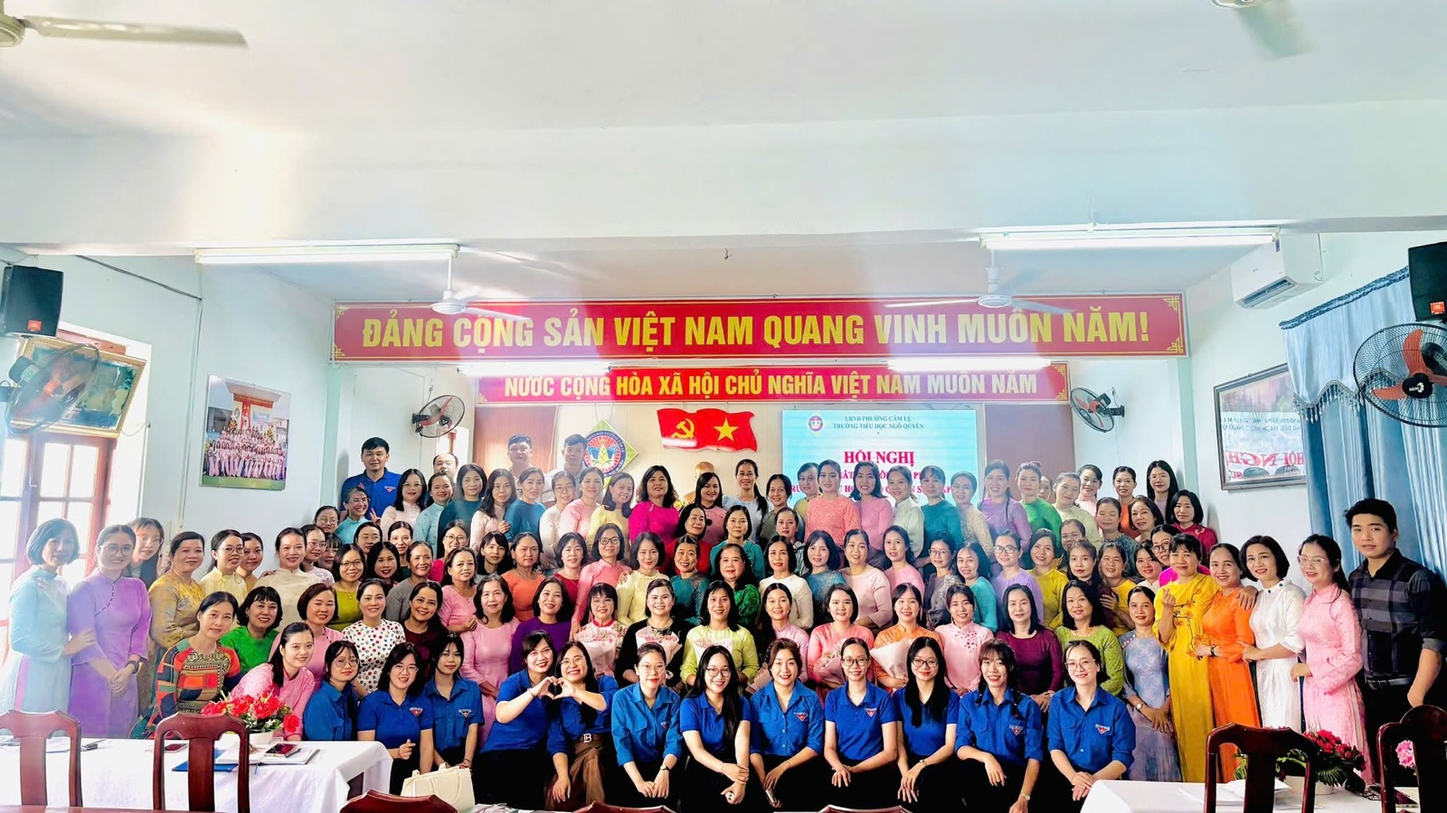
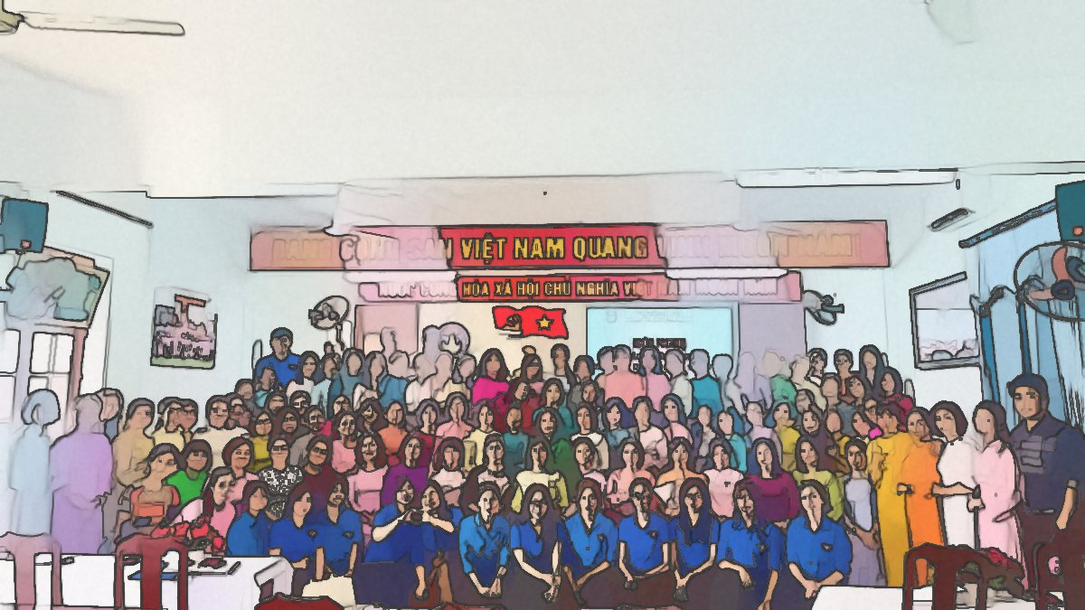
feat: use real school photos in watercolor style, teacher comics and milestone infographic

diff --git a/index.html b/index.html
@@ -242,7 +242,7 @@
       <div class="copy">
         <span class="kicker reveal" style="--i:0">🏫 Trường em</span>
         <h2 class="title reveal" style="--i:1">Trường Tiểu học <em>Ngô Quyền</em></h2>
-        <p class="lead reveal" style="--i:2">Ngôi trường thân yêu của chúng em ở <span class="mark">phường Cẩm Lệ, thành phố Đà Nẵng</span>. Trường có hai cơ sở để các bạn nhỏ đi học gần nhà hơn.</p>
+        <p class="lead reveal" style="--i:2">Ngôi trường thân yêu của chúng em ở <span class="mark">phường Cẩm Lệ, thành phố Đà Nẵng</span>. Dãy lớp học xanh mát, sân trường rộng và nhiều cây bóng mát.</p>
         <div class="info-cards reveal" style="--i:3">
           <div class="info-card"><span class="tag">Trụ sở chính</span><b>32 Lương Định Của</b><span>Phường Cẩm Lệ, Đà Nẵng</span></div>
           <div class="info-card"><span class="tag">Phân hiệu</span><b>43 Đỗ Thúc Tịnh</b><span>Phường Cẩm Lệ, Đà Nẵng</span></div>
@@ -251,17 +251,16 @@
         </div>
       </div>
       <div class="art reveal" style="--i:1">
-        <svg viewBox="0 0 440 340" role="img" aria-label="Tranh vẽ Trường Tiểu học Ngô Quyền với sân trường, cột cờ và các bạn học sinh">
-          <rect x="10" y="20" width="420" height="310" rx="34" fill="#fff"/>
-          <circle cx="370" cy="70" r="28" fill="#ffd166"/>
-          <g fill="#fff" stroke="#cfe9f5" stroke-width="2"><ellipse cx="90" cy="70" rx="40" ry="14"/><ellipse cx="240" cy="54" rx="34" ry="11"/></g>
-          <use href="#school" x="30" y="60" width="380" height="247"/>
-          <g>
-            <circle cx="120" cy="296" r="9" fill="#ffd9b8"/><rect x="112" y="304" width="16" height="18" rx="5" fill="#fff" stroke="#14213d" stroke-width="2"/><path d="m114 306 6 6 6-6" fill="#e63946"/>
-            <circle cx="160" cy="294" r="9" fill="#ffd9b8"/><rect x="152" y="302" width="16" height="20" rx="5" fill="#219ebc"/><path d="m154 304 6 6 6-6" fill="#e63946"/>
-            <circle cx="300" cy="296" r="9" fill="#ffd9b8"/><rect x="292" y="304" width="16" height="18" rx="5" fill="#fff" stroke="#14213d" stroke-width="2"/><path d="m294 306 6 6 6-6" fill="#e63946"/>
-          </g>
-        </svg>
+        <div class="campus">
+          <figure class="photo drawn wide frame">
+            <img src="images/day-lop-hoc-va-san-truong.jpg" alt="Dãy lớp học sơn màu xanh dương của trường, phía trước là hàng cây xanh" loading="lazy">
+            <figcaption>Dãy lớp học xanh mát giữa hàng cây · Ảnh: fanpage trường</figcaption>
+          </figure>
+          <figure class="photo drawn wide frame">
+            <img src="images/le-chao-co-tuyen-truyen-suc-khoe.jpg" alt="Học sinh ngồi kín sân trường trước dãy lớp học trong buổi sinh hoạt dưới cờ" loading="lazy">
+            <figcaption>Sân trường rộn ràng giờ sinh hoạt dưới cờ · Ảnh: fanpage trường</figcaption>
+          </figure>
+        </div>
       </div>
     </div>
   </section>
@@ -273,15 +272,83 @@
       <div class="copy">
         <span class="kicker reveal" style="--i:0">💐 Thầy cô của chúng em</span>
         <h2 class="title reveal" style="--i:1">Những người lái đò <em>tận tâm</em></h2>
-        <p class="lead reveal" style="--i:2">Trường có đội ngũ thầy cô đông đảo, luôn yêu thương và dạy dỗ chúng em từng nét chữ, từng bài học làm người.</p>
-        <p class="lead reveal" style="--i:3">Tháng 11/2026, trường khởi động chuỗi hoạt động chào mừng <span class="mark">44 năm Ngày Nhà giáo Việt Nam (20/11/1982 – 20/11/2026)</span>.</p>
-        <div class="chips reveal" style="--i:4"><span class="chip">👩🏫 Tận tâm</span><span class="chip">📖 Yêu nghề</span><span class="chip">🤝 Đoàn kết</span></div>
+        <p class="lead reveal" style="--i:2">Thầy cô dạy chúng em từng nét chữ, từng bài học làm người. Tháng 11/2026, trường khởi động chuỗi hoạt động chào mừng <span class="mark">44 năm Ngày Nhà giáo Việt Nam</span>.</p>
       </div>
       <div class="art reveal" style="--i:1">
-        <figure class="photo frame" style="aspect-ratio:16/10">
-          <img src="images/tap-the-thay-co-truong-ngo-quyen.jpg" alt="Tập thể thầy cô Trường Tiểu học Ngô Quyền mặc áo dài và áo Đoàn chụp ảnh chung trong hội trường" loading="lazy">
-          <figcaption>Tập thể thầy cô nhà trường · Ảnh: fanpage Trường TH Ngô Quyền – Phường Cẩm Lệ</figcaption>
+        <figure class="photo drawn frame" style="aspect-ratio:16/10">
+          <img src="images/tap-the-thay-co-truong-ngo-quyen.jpg" alt="Tập thể thầy cô Trường Tiểu học Ngô Quyền chụp ảnh chung trong hội trường" loading="lazy">
+          <figcaption>Tập thể thầy cô nhà trường · Ảnh: fanpage trường</figcaption>
         </figure>
+      </div>
+      <div class="comics reveal" style="--i:3">
+        <div class="comic" style="--r:-2deg">
+          <svg viewBox="0 0 240 150" role="img" aria-label="Tranh vui: cô giáo khoác áo choàng siêu nhân bay tới giúp bạn nhỏ giải bài toán khó">
+            <rect width="240" height="150" fill="#dff1ff"/>
+            <g fill="#fff"><ellipse cx="40" cy="30" rx="26" ry="9"/><ellipse cx="200" cy="22" rx="22" ry="8"/></g>
+            <path d="M118 66q-40 8-60 40 26-4 40 6z" fill="#e63946"/>
+            <rect x="104" y="60" width="34" height="40" rx="12" fill="#ff8fb1" transform="rotate(-20 121 80)"/>
+            <path d="M136 66l26-20" stroke="#ffd9b8" stroke-width="8" stroke-linecap="round"/>
+            <rect x="156" y="30" width="22" height="16" rx="3" fill="#fff" stroke="#14213d" stroke-width="2" transform="rotate(-15 167 38)"/>
+            <circle cx="132" cy="44" r="17" fill="#ffd9b8"/>
+            <path d="M115 42q2-20 20-19 16 1 15 18-6-9-18-9-10 0-17 10z" fill="#3d2b1f"/><circle cx="150" cy="30" r="7" fill="#3d2b1f"/>
+            <circle cx="127" cy="45" r="2.4" fill="#14213d"/><circle cx="138" cy="45" r="2.4" fill="#14213d"/>
+            <path d="M128 52q5 4 10 0" stroke="#14213d" stroke-width="2" fill="none" stroke-linecap="round"/>
+            <g stroke="#ffb703" stroke-width="3" stroke-linecap="round"><path d="M70 60l-14-4"/><path d="M74 74l-16 2"/></g>
+            <circle cx="56" cy="122" r="13" fill="#ffd9b8"/><path d="M44 118q12-14 24 0" fill="#3d2b1f"/>
+            <rect x="44" y="134" width="24" height="16" rx="6" fill="#fff"/>
+            <path d="M51 125q5 4 10 0" stroke="#14213d" stroke-width="2" fill="none"/>
+            <rect x="80" y="104" width="62" height="40" rx="6" fill="#2a9d8f"/><text x="111" y="130" text-anchor="middle" font-family="Baloo 2, sans-serif" font-weight="800" font-size="15" fill="#fff">7×8=?</text>
+            <rect x="160" y="90" width="72" height="26" rx="13" fill="#fff" stroke="#14213d" stroke-width="2"/><text x="196" y="108" text-anchor="middle" font-family="Be Vietnam Pro, sans-serif" font-weight="700" font-size="11" fill="#14213d">Để cô giúp!</text>
+          </svg>
+          <b>Siêu nhân giải bài khó</b><span>Bài nào khó, thầy cô “bay” tới liền.</span>
+        </div>
+        <div class="comic" style="--r:1.5deg">
+          <svg viewBox="0 0 240 150" role="img" aria-label="Tranh vui: cô giáo tưới nước cho chậu cây, các bạn nhỏ mọc lên như mầm cây và nở hoa">
+            <rect width="240" height="150" fill="#eafbe7"/>
+            <circle cx="214" cy="26" r="14" fill="#ffd166"/>
+            <path d="M120 150h100l-10-46h-80z" fill="#c97a40"/><rect x="124" y="98" width="92" height="12" rx="4" fill="#a8622f"/>
+            <g>
+              <path d="M150 98V78" stroke="#2a9d8f" stroke-width="4"/><path d="M150 86q-12-2-14-12 12 0 14 12z" fill="#2a9d8f"/>
+              <circle cx="150" cy="66" r="13" fill="#ffd9b8"/><path d="M138 62q12-14 24 0" fill="#3d2b1f"/>
+              <circle cx="146" cy="66" r="1.8" fill="#14213d"/><circle cx="154" cy="66" r="1.8" fill="#14213d"/><path d="M146 72q4 3 8 0" stroke="#14213d" stroke-width="1.8" fill="none"/>
+              <path d="M190 98V70" stroke="#2a9d8f" stroke-width="4"/><path d="M190 80q12-2 14-12-12 0-14 12z" fill="#2a9d8f"/>
+              <circle cx="190" cy="56" r="13" fill="#ffd9b8"/><path d="M178 52q12-14 24 0" fill="#3d2b1f"/><circle cx="200" cy="46" r="5" fill="#e63946"/>
+              <circle cx="186" cy="56" r="1.8" fill="#14213d"/><circle cx="194" cy="56" r="1.8" fill="#14213d"/><path d="M186 62q4 3 8 0" stroke="#14213d" stroke-width="1.8" fill="none"/>
+              <g fill="#ff8fb1"><circle cx="170" cy="74" r="5"/><circle cx="176" cy="80" r="5"/><circle cx="164" cy="80" r="5"/></g><circle cx="170" cy="79" r="3" fill="#ffd166"/>
+            </g>
+            <rect x="34" y="70" width="34" height="56" rx="12" fill="#7b5cd6"/>
+            <circle cx="51" cy="52" r="17" fill="#ffd9b8"/><path d="M34 50q2-20 18-19 16 1 16 18-6-8-17-8-10 0-17 9z" fill="#3d2b1f"/>
+            <circle cx="46" cy="53" r="2.3" fill="#14213d"/><circle cx="56" cy="53" r="2.3" fill="#14213d"/><path d="M46 60q5 4 10 0" stroke="#14213d" stroke-width="2" fill="none"/>
+            <path d="M66 84l26-6" stroke="#ffd9b8" stroke-width="7" stroke-linecap="round"/>
+            <path d="M84 70h24l8-10 4 4-10 14h-26z" fill="#219ebc"/>
+            <g fill="#219ebc"><circle cx="124" cy="72" r="2.5"/><circle cx="130" cy="80" r="2.5"/><circle cx="126" cy="88" r="2.5"/></g>
+            <rect x="38" y="126" width="10" height="18" rx="4" fill="#14213d"/><rect x="54" y="126" width="10" height="18" rx="4" fill="#14213d"/>
+            <rect x="6" y="18" width="84" height="26" rx="13" fill="#fff" stroke="#14213d" stroke-width="2"/><text x="48" y="36" text-anchor="middle" font-family="Be Vietnam Pro, sans-serif" font-weight="700" font-size="11" fill="#14213d">Lớn nhanh nha!</text>
+          </svg>
+          <b>Người làm vườn chăm mầm</b><span>Ngày ngày “tưới” kiến thức cho chúng em lớn.</span>
+        </div>
+        <div class="comic" style="--r:-1deg">
+          <svg viewBox="0 0 240 150" role="img" aria-label="Tranh vui: thầy giáo dán băng cá nhân hình trái tim lên đầu gối bạn nhỏ, bạn nhỏ hết khóc và cười">
+            <rect width="240" height="150" fill="#fff0f3"/>
+            <g fill="#ffb3c6"><path d="M200 30a7 7 0 0 1 12-6 7 7 0 0 1 12 6q0 8-12 16-12-8-12-16z"/><path d="M18 120a5 5 0 0 1 9-4 5 5 0 0 1 9 4q0 6-9 11-9-5-9-11z"/></g>
+            <rect x="40" y="74" width="40" height="52" rx="12" fill="#219ebc"/>
+            <circle cx="60" cy="54" r="18" fill="#ffd9b8"/><path d="M42 50q4-18 20-18 14 0 16 16-8-6-18-6t-18 8z" fill="#2b2b2b"/>
+            <path d="M52 55h6M64 55h6" stroke="#14213d" stroke-width="2.4" stroke-linecap="round"/>
+            <path d="M54 63q6 5 12 0" stroke="#14213d" stroke-width="2" fill="none"/>
+            <path d="M80 100l34 10" stroke="#ffd9b8" stroke-width="8" stroke-linecap="round"/>
+            <rect x="44" y="126" width="12" height="18" rx="4" fill="#14213d"/><rect x="62" y="126" width="12" height="18" rx="4" fill="#14213d"/>
+            <circle cx="160" cy="88" r="15" fill="#ffd9b8"/><path d="M146 84q14-16 28 0" fill="#3d2b1f"/>
+            <circle cx="155" cy="88" r="2" fill="#14213d"/><circle cx="165" cy="88" r="2" fill="#14213d"/>
+            <path d="M154 95q6 5 12 0" stroke="#14213d" stroke-width="2" fill="none"/>
+            <circle cx="150" cy="93" r="3.5" fill="#ffb3b3"/><circle cx="170" cy="93" r="3.5" fill="#ffb3b3"/>
+            <path d="M151 84l-3 6" stroke="#7fd3ff" stroke-width="2.5" stroke-linecap="round"/>
+            <rect x="146" y="104" width="28" height="26" rx="8" fill="#fff" stroke="#14213d" stroke-width="2"/><path d="m152 106 8 8 8-8" fill="#e63946"/>
+            <path d="M152 130l-14 12M168 130l18 4" stroke="#ffd9b8" stroke-width="8" stroke-linecap="round"/>
+            <rect x="122" y="104" width="16" height="10" rx="3" fill="#ffd166" transform="rotate(20 130 109)"/><path d="M127 107a2 2 0 0 1 3-1 2 2 0 0 1 3 1q0 2-3 4-3-2-3-4z" fill="#e63946"/>
+            <rect x="150" y="18" width="84" height="26" rx="13" fill="#fff" stroke="#14213d" stroke-width="2"/><text x="192" y="36" text-anchor="middle" font-family="Be Vietnam Pro, sans-serif" font-weight="700" font-size="11" fill="#14213d">Hết đau rồi! 😊</text>
+          </svg>
+          <b>Bác sĩ của nụ cười</b><span>Té một cái thôi, có thầy cô vỗ về liền.</span>
+        </div>
       </div>
     </div>
   </section>
@@ -291,55 +358,54 @@
     <div class="inner single">
       <div class="copy">
         <span class="kicker reveal" style="--i:0">🎉 Hoạt động sôi nổi</span>
-        <h2 class="title reveal" style="--i:1">Học vui, chơi khỏe, <em>đọc hay</em></h2>
+        <h2 class="title reveal" style="--i:1">Học vui, chơi khỏe, <em>sáng tạo mỗi ngày</em></h2>
       </div>
-      <div class="gallery reveal" style="--i:2">
-        <figure class="tile photo w4" style="min-height:220px">
-          <img src="images/giai-cau-long-cap-truong-1.jpg" alt="Học sinh thi đấu cầu lông trong nhà thi đấu của trường" loading="lazy">
-          <figcaption>Giải Cầu lông học sinh cấp trường, năm học 2026–2027 · Ảnh: fanpage trường</figcaption>
+      <div class="acts reveal" style="--i:2">
+        <figure class="act drawn" style="--r:-1.5deg">
+          <span class="sticker">♟ Cờ vua</span>
+          <img src="images/giai-co-vua-hoc-sinh.jpg" alt="Nhiều học sinh ngồi thi đấu cờ vua dưới hàng cờ đỏ" loading="lazy">
+          <figcaption><b>Kỳ thủ nhí so tài trí tuệ</b><small>Giải cờ vua học sinh</small></figcaption>
         </figure>
-        <div class="tile w2" style="background:linear-gradient(140deg,#e63946,#ff8a5b)">
-          <svg class="ico"><use href="#ico-book"/></svg>
-          <h3>Nhi đồng Đọc chất</h3><p>Bạn nhỏ lớp 2 của trường giành Giải Nhất tháng 10/2026.</p>
-        </div>
-        <div class="tile w2 half" style="background:linear-gradient(140deg,#14213d,#3a4f8a)">
-          <svg class="ico"><use href="#ico-chess"/></svg>
-          <h3>Cờ vua</h3><p>Học sinh đạt giải cờ vua khu vực miền Trung mở rộng 2026.</p>
-        </div>
-        <div class="tile w2 half" style="background:linear-gradient(140deg,#2a9d8f,#219ebc)">
-          <svg class="ico"><use href="#ico-flower"/></svg>
-          <h3>Tri ân 20/11</h3><p>Chuỗi hoạt động chào mừng Ngày Nhà giáo Việt Nam.</p>
-        </div>
-        <figure class="tile photo w2" style="min-height:180px">
-          <img src="images/giai-cau-long-cap-truong-2.jpg" alt="Một bạn học sinh mặc áo đỏ đánh cầu lông" loading="lazy">
-          <figcaption>Cầu lông · Ảnh: fanpage trường</figcaption>
+        <figure class="act drawn" style="--r:1deg">
+          <span class="sticker">🎨 Mĩ thuật</span>
+          <img src="images/cau-lac-bo-mi-thuat.jpg" alt="Các bạn học sinh cùng tô vẽ, làm đồ thủ công trong giờ sinh hoạt câu lạc bộ Mĩ thuật" loading="lazy">
+          <figcaption><b>Đôi bàn tay khéo léo</b><small>Sinh hoạt Câu lạc bộ Mĩ thuật</small></figcaption>
         </figure>
+        <figure class="act drawn" style="--r:-1deg">
+          <span class="sticker">🔬 Khoa học</span>
+          <img src="images/kham-pha-khoa-hoc-lop-5.jpg" alt="Học sinh lớp 5 cùng nhau làm phiếu học tập về chủ đề năng lượng" loading="lazy">
+          <figcaption><b>Nhà khoa học nhí tìm hiểu năng lượng</b><small>Khoa học lớp 5, học theo nhóm</small></figcaption>
+        </figure>
+        <figure class="act drawn" style="--r:1.5deg">
+          <span class="sticker">📚 Tiết học mở</span>
+          <img src="images/tiet-hoc-chuyen-de.jpg" alt="Học sinh làm việc nhóm trong một tiết học, phía sau có nhiều thầy cô đến dự giờ" loading="lazy">
+          <figcaption><b>Lớp học sôi nổi, thầy cô cùng dự</b><small>Tiết học chuyên đề</small></figcaption>
+        </figure>
+        <figure class="act drawn" style="--r:-1deg">
+          <span class="sticker">🏸 Thể thao</span>
+          <img src="images/giai-cau-long-cap-truong-1.jpg" alt="Học sinh thi đấu cầu lông trong nhà thi đấu" loading="lazy">
+          <figcaption><b>Vợt nhỏ, tinh thần lớn</b><small>Giải cầu lông cấp trường 2026–2027</small></figcaption>
+        </figure>
+        <div class="act" style="--r:1deg;background:linear-gradient(140deg,#e63946,#ff8a5b);display:grid;align-content:end;padding:16px;color:#fff">
+          <span class="sticker">📖 Đọc sách</span>
+          <svg class="ico" style="position:absolute;top:14px;right:14px;width:60px;height:60px"><use href="#ico-book"/></svg>
+          <b style="font-family:var(--display);font-size:1.25rem;line-height:1.2">Nhi đồng Đọc chất</b>
+          <span style="font-size:.9rem">Bạn nhỏ lớp 2 của trường giành Giải Nhất tháng 10/2026.</span>
+        </div>
       </div>
     </div>
   </section>
 
   <!-- 8. DẤU MỐC -->
   <section class="slide" data-fx="slide" data-chapter="Trường em" aria-label="Dấu mốc đáng nhớ" style="--bg:#e6f3ff;--accent:var(--sky)" aria-hidden="true">
-    <div class="inner">
+    <div class="inner single">
       <div class="copy">
         <span class="kicker reveal" style="--i:0">🏅 Dấu mốc đáng nhớ</span>
         <h2 class="title reveal" style="--i:1">Những trang <em>sử vàng</em> của trường</h2>
-        <p class="lead reveal" style="--i:2">Năm thành lập trường: <span class="fill-me">[em hỏi thầy cô rồi điền vào đây]</span></p>
-        <svg class="reveal float" style="--i:3;max-width:220px" viewBox="0 0 200 200" role="img" aria-label="Hình chiếc cúp vàng">
-          <circle cx="100" cy="100" r="92" fill="#fff"/>
-          <path d="M62 46h76v30c0 26-16 44-38 44S62 102 62 76z" fill="#ffb703"/>
-          <path d="M62 56H40c0 22 10 34 26 36M138 56h22c0 22-10 34-26 36" stroke="#ffb703" stroke-width="8" fill="none"/>
-          <rect x="90" y="118" width="20" height="22" fill="#e09a00"/><rect x="66" y="140" width="68" height="16" rx="5" fill="#14213d"/>
-          <path d="m100 62 5 11 12 1-9 8 3 12-11-6-11 6 3-12-9-8 12-1z" fill="#fff"/>
-        </svg>
       </div>
-      <ol class="timeline reveal" style="--i:2">
-        <li style="--c:var(--red)"><span class="pin">🏫</span><div class="card"><span class="when">Năm học 2000–2001</span><span>Trường đạt chuẩn quốc gia.</span></div></li>
-        <li style="--c:#e09a00"><span class="pin">🏛</span><div class="card"><span class="when">Năm 2025</span><span>Sau sắp xếp đơn vị hành chính, trường trực thuộc UBND phường Cẩm Lệ.</span></div></li>
-        <li style="--c:var(--mint)"><span class="pin">📚</span><div class="card"><span class="when">Tháng 10/2026</span><span>Học sinh lớp 2 đoạt Giải Nhất cuộc thi “Nhi đồng Đọc chất”.</span></div></li>
-        <li style="--c:var(--sky)"><span class="pin">♟</span><div class="card"><span class="when">8/11/2026</span><span>Học sinh đạt giải Cờ vua khu vực miền Trung mở rộng.</span></div></li>
-        <li style="--c:var(--grape)"><span class="pin">💐</span><div class="card"><span class="when">20/11/2026</span><span>Chào mừng 44 năm Ngày Nhà giáo Việt Nam.</span></div></li>
-      </ol>
+      <figure class="milestone-art reveal" style="--i:2;margin:0">
+        <a href="images/dau-moc-phat-trien-truong-ngo-quyen.jpg" target="_blank" rel="noopener" title="Bấm để xem ảnh lớn"><img src="images/dau-moc-phat-trien-truong-ngo-quyen.jpg" alt="Tranh dấu mốc phát triển Trường Tiểu học Ngô Quyền: 1953 dấu tích giáo dục tại khu vực trường; 12/9/2009 bắt đầu lưu trữ hoạt động trên Internet; 2010 tổng kết thành tích 5 năm 2009–2010; 2013 đạt chuẩn quốc gia mức 1 với 49 giải cấp quận và 7 giải cấp thành phố; 29/11/2019 khánh thành bể bơi phòng chống đuối nước; 5/9/2025 bước vào năm học 2025–2026 với hơn 1.270 học sinh; 19/8/2026 quyết định sáp nhập Trường Tiểu học Diên Hồng vào Trường Tiểu học Ngô Quyền." loading="lazy"></a>
+      </figure>
     </div>
   </section>
 
@@ -416,8 +482,8 @@
         <div class="sources">
           <b>Nguồn thông tin và hình ảnh</b>
           <span>Thông tin, ảnh về trường: <a href="https://www.facebook.com/p/Tr%C6%B0%E1%BB%9Dng-Ti%E1%BB%83u-h%E1%BB%8Dc-Ng%C3%B4-Quy%E1%BB%81n-Ph%C6%B0%E1%BB%9Dng-C%E1%BA%A9m-L%E1%BB%87-61594019667443/" target="_blank" rel="noopener">fanpage Trường Tiểu học Ngô Quyền – Phường Cẩm Lệ</a>.</span>
-          <span>Mốc đạt chuẩn quốc gia, học 2 buổi/ngày: <a href="https://toplist.vn/top-list/truong-tieu-hoc-tot-nhat-quan-cam-le-da-nang-64916.htm" target="_blank" rel="noopener">toplist.vn</a> (cần nhà trường xác nhận).</span>
-          <span>Tranh minh hoạ Ngô Quyền, trận Bạch Đằng, ngôi trường: tự vẽ. Không đăng họ tên, ảnh rõ mặt học sinh.</span>
+          <span>Học 2 buổi/ngày: <a href="https://toplist.vn/top-list/truong-tieu-hoc-tot-nhat-quan-cam-le-da-nang-64916.htm" target="_blank" rel="noopener">toplist.vn</a>. Tranh dấu mốc phát triển: tư liệu tổng hợp về nhà trường.</span>
+          <span>Tranh minh hoạ Ngô Quyền, trận Bạch Đằng, ngôi trường, thầy cô: tự vẽ. Ảnh thật được chuyển sang kiểu tranh vẽ tay; không ghi họ tên học sinh.</span>
         </div>
       </div>
     </div>

diff --git a/assets/slide-components.css b/assets/slide-components.css
@@ -155,3 +155,53 @@
   .brand span { display: none; }
   .brand { padding-right: 6px; }
 }
+
+/* ---------- Ảnh thật đã vẽ lại kiểu tranh tay (tools/make-hand-drawn-photos.py) + khung giấy ---------- */
+.drawn { position: relative; overflow: hidden; background: #fffaf0; }
+.drawn::after {
+  content: ""; position: absolute; inset: 0; pointer-events: none;
+  background:
+    radial-gradient(circle at 20% 15%, rgba(255,214,224,.28), transparent 45%),
+    radial-gradient(circle at 85% 90%, rgba(255,241,184,.32), transparent 50%),
+    repeating-linear-gradient(115deg, rgba(120,90,60,.035) 0 2px, transparent 2px 6px);
+  box-shadow: inset 0 0 0 6px #fffaf0, inset 0 0 30px rgba(255,248,235,.9);
+  mix-blend-mode: multiply;
+  border-radius: inherit;
+}
+.drawn figcaption { z-index: 2; }
+
+/* Slide 5: hai ảnh cơ sở */
+.campus { display: grid; gap: 12px; grid-template-columns: minmax(0,1fr); }
+.campus .photo { aspect-ratio: 4 / 3; border-radius: var(--radius); }
+.campus .photo.wide { aspect-ratio: 16 / 10; }
+
+/* Slide 6: tranh vui về thầy cô */
+.comics { grid-column: 1 / -1; display: grid; grid-template-columns: repeat(3, minmax(0,1fr)); gap: 14px; }
+.comic { background: #fff; border-radius: 24px; padding: 10px 10px 14px; display: grid; gap: 6px; text-align: center; box-shadow: 0 12px 26px -18px rgba(20,33,61,.5); transform: rotate(var(--r, 0deg)); transition: transform .3s var(--ease); }
+.comic:hover { transform: rotate(0) scale(1.03); }
+.comic svg { width: 100%; height: auto; border-radius: 16px; }
+.comic b { font-family: var(--display); font-size: 1.1rem; color: var(--navy); line-height: 1.2; }
+.comic span { font-size: .88rem; color: var(--ink-soft); }
+
+/* Slide 7: lưới ảnh hoạt động */
+.acts { display: grid; grid-template-columns: repeat(3, minmax(0,1fr)); gap: 14px; }
+.act { margin: 0; border-radius: 22px; overflow: hidden; position: relative; aspect-ratio: 4 / 3; box-shadow: 0 14px 30px -20px rgba(20,33,61,.6); transform: rotate(var(--r, 0deg)); transition: transform .3s var(--ease); }
+.act:hover { transform: rotate(0) scale(1.03); z-index: 2; }
+.act img { width: 100%; height: 100%; object-fit: cover; }
+.act figcaption { position: absolute; z-index: 2; left: 10px; right: 10px; bottom: 10px; background: rgba(255,255,255,.92); color: var(--navy); border-radius: 14px; padding: 8px 12px; display: grid; gap: 0; }
+.act figcaption b { font-family: var(--display); font-size: 1.05rem; line-height: 1.2; }
+.act figcaption small { font-size: .78rem; color: var(--ink-soft); }
+.act .sticker { position: absolute; z-index: 2; top: 10px; left: 10px; background: var(--sun); color: var(--navy); font-weight: 800; font-size: .78rem; padding: 4px 10px; border-radius: 999px; }
+
+/* Slide 8: infographic dấu mốc */
+.milestone-art { border-radius: var(--radius); overflow: hidden; box-shadow: 0 24px 50px -24px rgba(20,33,61,.55); background: #fff; }
+.milestone-art img { width: 100%; height: auto; }
+
+@media (max-width: 860px) {
+  .comics { grid-template-columns: minmax(0,1fr); }
+  .acts { grid-template-columns: repeat(2, minmax(0,1fr)); }
+}
+@media (max-width: 480px) {
+  .acts { grid-template-columns: minmax(0,1fr); }
+}
+.milestone-art { justify-self: center; max-width: min(100%, calc((100dvh - 250px) * 1.777)); }

diff --git a/tools/make-hand-drawn-photos.py b/tools/make-hand-drawn-photos.py
@@ -1,0 +1,62 @@
+"""Chuyển ảnh thật thành kiểu tranh vẽ tay màu nước, nhẹ nhàng.
+
+Cách dùng (cần opencv-python-headless + numpy):
+    python make-hand-drawn-photos.py <thu-muc-anh-goc> <thu-muc-dau-ra>
+
+Mỗi ảnh .jpg trong thư mục gốc được lưu sang thư mục đầu ra cùng tên.
+"""
+import sys
+from pathlib import Path
+
+import cv2
+import numpy as np
+
+
+def watercolor(img: np.ndarray) -> np.ndarray:
+    h, w = img.shape[:2]
+    scale = 1200 / max(h, w)
+    if scale < 1:
+        img = cv2.resize(img, (int(w * scale), int(h * scale)), interpolation=cv2.INTER_AREA)
+
+    # Màu bệt mượt như màu nước: làm mịn giữ cạnh nhiều lần
+    paint = img
+    for _ in range(2):
+        paint = cv2.bilateralFilter(paint, 9, 60, 9)
+    paint = cv2.stylization(paint, sigma_s=70, sigma_r=0.4)
+
+    # Pastel: sáng và dịu hơn ảnh gốc
+    hsv = cv2.cvtColor(paint, cv2.COLOR_BGR2HSV).astype(np.float32)
+    hsv[..., 1] *= 0.92
+    hsv[..., 2] = hsv[..., 2] * 0.78 + 255 * 0.24
+    paint = cv2.cvtColor(np.clip(hsv, 0, 255).astype(np.uint8), cv2.COLOR_HSV2BGR)
+
+    # Nét chì mảnh, chỉ giữ các đường viền lớn
+    gray = cv2.cvtColor(cv2.GaussianBlur(img, (0, 0), 2.2), cv2.COLOR_BGR2GRAY)
+    edges = cv2.Canny(gray, 40, 110)
+    edges = cv2.dilate(edges, np.ones((2, 2), np.uint8))
+    lines = 1.0 - cv2.GaussianBlur(edges, (0, 0), 0.8).astype(np.float32) / 255 * 0.45
+    out = paint.astype(np.float32) * lines[..., None]
+
+    # Ám giấy ấm + vân giấy nhẹ
+    paper = np.array([236, 246, 255], np.float32)  # BGR, hơi kem
+    out = out * 0.9 + paper * 0.1
+    rng = np.random.default_rng(7)
+    grain = cv2.GaussianBlur(rng.normal(0, 1, out.shape[:2]).astype(np.float32), (0, 0), 1.2)
+    out += grain[..., None] * 5
+    return np.clip(out, 0, 255).astype(np.uint8)
+
+
+def main(src: str, dst: str) -> None:
+    out_dir = Path(dst)
+    out_dir.mkdir(parents=True, exist_ok=True)
+    for path in sorted(Path(src).glob("*.jpg")):
+        img = cv2.imread(str(path))
+        if img is None:
+            print("Bỏ qua (không đọc được):", path.name)
+            continue
+        cv2.imwrite(str(out_dir / path.name), watercolor(img), [cv2.IMWRITE_JPEG_QUALITY, 84])
+        print("Đã vẽ lại:", path.name)
+
+
+if __name__ == "__main__":
+    main(sys.argv[1], sys.argv[2])

diff --git a/README.md b/README.md
@@ -15,7 +15,7 @@ Gồm 11 slide, bấm nút ‹ › (hoặc phím ← →, hoặc vuốt) để c
 
 ## Chỗ em cần tự sửa
 
-Mở `index.html` và tìm `fill-me`. Đó là các ô tô vàng: tên gọi, lớp, sở thích, ước mơ, năm thành lập trường.
+Mở `index.html` và tìm `fill-me`. Đó là các ô tô vàng: tên gọi, lớp, sở thích, ước mơ.
 
 ## Chạy thử trên máy
 
@@ -28,6 +28,8 @@ Rồi mở `http://localhost:8000`.
 ## Nguồn
 
 - Thông tin và ảnh về trường: fanpage Trường Tiểu học Ngô Quyền – Phường Cẩm Lệ.
-- Mốc đạt chuẩn quốc gia (2000–2001) và học 2 buổi/ngày: toplist.vn. Cần nhà trường xác nhận.
-- Tranh minh hoạ (Ngô Quyền, trận Bạch Đằng, ngôi trường, đố vui): tự vẽ bằng SVG.
+- Học 2 buổi/ngày: toplist.vn.
+- Tranh dấu mốc phát triển (slide 8): `images/dau-moc-phat-trien-truong-ngo-quyen.jpg`.
+- Tranh minh hoạ (Ngô Quyền, trận Bạch Đằng, ngôi trường, thầy cô, đố vui): tự vẽ bằng SVG.
+- Ảnh thật được vẽ lại kiểu màu nước bằng `tools/make-hand-drawn-photos.py` (cần `opencv-python-headless`, `numpy`).
 - Thiệp không đăng họ tên, ảnh rõ mặt học sinh. Ảnh thầy cô chỉ đăng khi nhà trường đồng ý.
